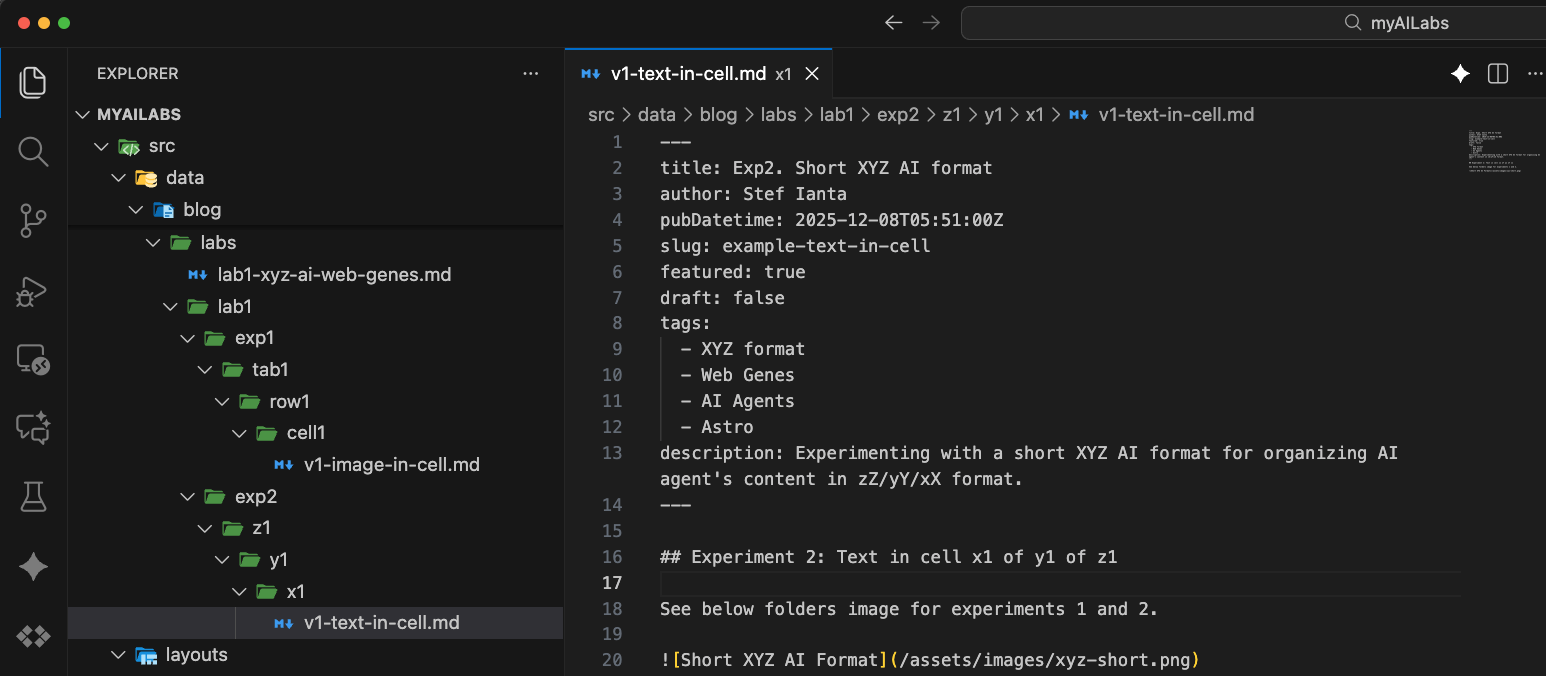
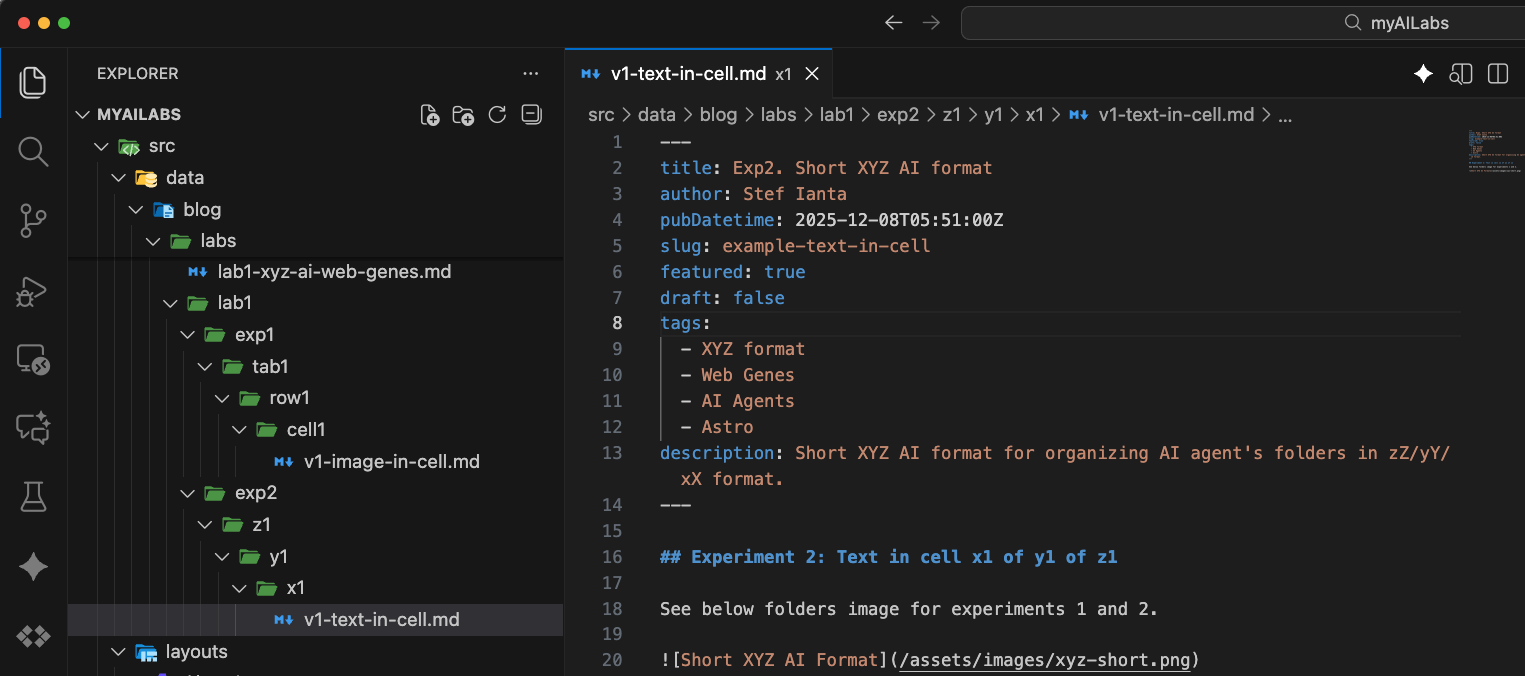
SI @1765221281396 ms + Another equivalent short format could be tZ/rY/cX similar to the RC cell reference format in spreadsheets

diff --git a/src/data/blog/labs/lab1/exp2/z1/y1/x1/v1-text-in-cell.md b/src/data/blog/labs/lab1/exp2/z1/y1/x1/v1-text-in-cell.md
@@ -15,6 +15,13 @@ description: Short XYZ AI format for organizing AI agent's folders in zZ/yY/xX f
 
 ## Experiment 2: Text in cell x1 of y1 of z1
 
-See below folders image for experiments 1 and 2.
+See below the folders image for experiments 1 and 2.
+
+Another equivalent short format could be tZ/rY/cX similar to the RC cell reference format in spreadsheets - with:
+- t for tab
+- r for row
+- c for cell
+
+For now, I'll keep XYZ as it seems to be a term more popular in web usage than TRC or CRT.   
 
 ![Short XYZ AI Format](/assets/images/xyz-short.png)
